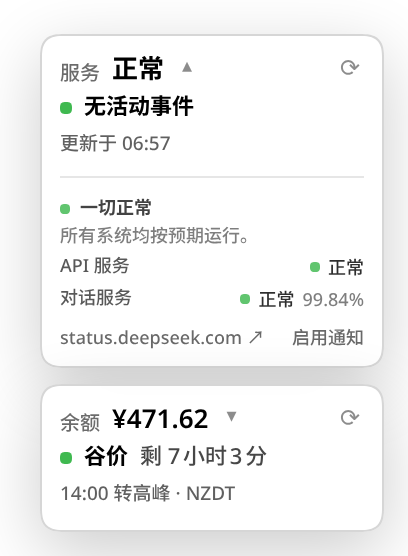
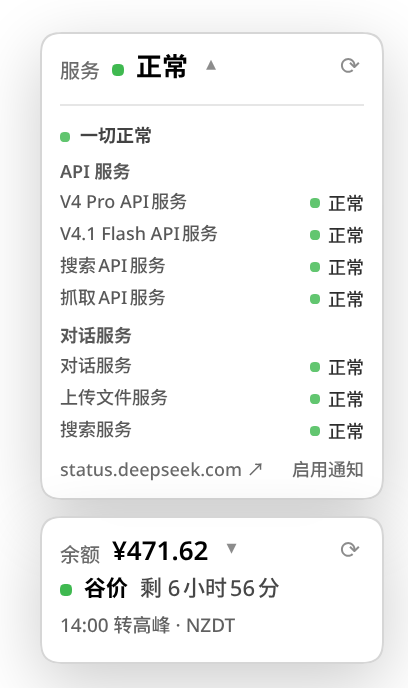
Show only the main status collapsed; list all services when expanded
Collapse the status card to one line (label, state dot/value, chevron, refresh). The inline expansion keeps only current status for every service grouped by API/Chat, with no descriptions, uptime, timelines or recent-event history.

diff --git a/lib/client.js b/lib/client.js
@@ -119,6 +119,12 @@
   function groupShortName(name) {
     return String(name || '').replace(/\(.*$/, '').trim() || t('API 服务', 'API service')
   }
+  function componentShortName(name) {
+    return String(name || '')
+      .replace(/\s*\([^)]*\)\s*$/, '')
+      .replace(/^DeepSeek\s+/i, '')
+      .trim() || name
+  }
   function groupStatus(group) {
     var rank = { operational: 0, maintenance: 1, degraded: 2, partial_outage: 3, full_outage: 4, unknown: 5 }
     var worst = 'operational'
@@ -148,6 +154,9 @@
     '.dsh-status-refresh:hover,.dsh-status-chevron:hover{opacity:1}',
     '.dsh-status-line{display:flex;align-items:center;gap:6px;min-width:0;font-size:11px}',
     '.dsh-status-dot{display:inline-block;width:6px;height:6px;flex:0 0 auto;border-radius:50%;background:#3fb950;vertical-align:middle}',
+    '.dsh-status-head .dsh-status-dot{margin-top:7px}',
+    '.dsh-status-detail-group{margin-top:5px;font-weight:600;opacity:.8}',
+    '.dsh-status-detail-group:first-of-type{margin-top:0}',
     '.dsh-status-card[data-status="degraded"] .dsh-status-dot,.dsh-status-card[data-status="partial_outage"] .dsh-status-dot,.dsh-status-detail-dot[data-status="degraded"],.dsh-status-detail-dot[data-status="partial_outage"]{background:#e6a23c}',
     '.dsh-status-card[data-status="full_outage"] .dsh-status-dot,.dsh-status-detail-dot[data-status="full_outage"]{background:#d5484a}',
     '.dsh-status-card[data-status="maintenance"] .dsh-status-dot,.dsh-status-detail-dot[data-status="maintenance"]{background:#4a7dff}',
@@ -242,16 +251,11 @@
   card.innerHTML = [
     '<div class="dsh-status-head">',
     '  <span class="dsh-status-label"></span>',
+    '  <span class="dsh-status-dot"></span>',
     '  <span class="dsh-status-value">…</span>',
     '  <span class="dsh-status-chevron" aria-hidden="true">▾</span>',
     '  <button class="dsh-status-refresh" type="button">⟳</button>',
     '</div>',
-    '<div class="dsh-status-line">',
-    '  <span class="dsh-status-dot"></span>',
-    '  <span class="dsh-status-window">…</span>',
-    '  <span class="dsh-status-remain"></span>',
-    '</div>',
-    '<div class="dsh-status-next"></div>',
     '<div class="dsh-status-details"></div>',
   ].join('')
   document.body.appendChild(card)
@@ -305,24 +309,9 @@
     card.setAttribute('data-status', indicator)
     setText(card.querySelector('.dsh-status-label'), t('服务', 'Service'))
     setText(card.querySelector('.dsh-status-value'), cardState(indicator))
-    var count = summary && Number(summary.activeCount)
-    var windowText
-    if (!summary && state.error) windowText = t('连接失败', 'Connection failed')
-    else if (!summary) windowText = '…'
-    else if (count > 0) windowText = count + t(' 个事件', ' incident' + (count > 1 ? 's' : ''))
-    else windowText = t('无活动事件', 'No active incidents')
-    setText(card.querySelector('.dsh-status-window'), windowText)
-    setText(card.querySelector('.dsh-status-remain'), '')
-    var updated = summary && summary.fetchedAt ? fmtTime(summary.fetchedAt) : ''
-    var next
-    if (!summary && state.error) next = state.error
-    else if (!summary) next = t('正在获取状态…', 'Fetching status…')
-    else next = t('更新于 ', 'Updated ') + updated
-    setText(card.querySelector('.dsh-status-next'), next)
     var hint = expanded ? t('点击收起', 'Click to collapse') : t('点击展开详情', 'Click for details')
     if (card.title !== hint) card.title = hint
     var aria = t('DeepSeek 服务：', 'DeepSeek service: ') + cardState(indicator)
-    if (count > 0) aria += ' · ' + count + t(' 个事件', ' incident' + (count > 1 ? 's' : ''))
     card.setAttribute('aria-label', aria)
   }
 
@@ -347,26 +336,29 @@
       detailDot(indicator),
       node('span', 'dsh-status-detail-title', overallTitle(indicator)))
     details.appendChild(overall)
-    details.appendChild(node('div', 'dsh-status-detail-desc', overallDesc(indicator)))
 
     var groups = Array.isArray(summary.groups) ? summary.groups : []
     for (var i = 0; i < groups.length; i += 1) {
       var group = groups[i]
-      var status = groupStatus(group)
-      var right = append(node('span', 'dsh-status-detail-right'),
-        detailDot(status),
-        node('span', null, statusLabel(status)),
-        group.uptime !== null && group.uptime !== undefined
-          ? node('span', 'dsh-status-detail-uptime', fmtUptime(group.uptime))
-          : null)
-      details.appendChild(append(node('div', 'dsh-status-detail-row'),
-        node('span', 'dsh-status-detail-name', groupShortName(group.name)),
-        right))
+      var components = Array.isArray(group.components) ? group.components : []
+      if (!components.length) continue
+      details.appendChild(node('div', 'dsh-status-detail-group', groupShortName(group.name)))
+      for (var j = 0; j < components.length; j += 1) {
+        var component = components[j]
+        var componentStatus = component.status || 'unknown'
+        var name = node('span', 'dsh-status-detail-name', componentShortName(component.name))
+        name.title = component.name || ''
+        details.appendChild(append(node('div', 'dsh-status-detail-row'),
+          name,
+          append(node('span', 'dsh-status-detail-right'),
+            detailDot(componentStatus),
+            node('span', null, statusLabel(componentStatus)))))
+      }
     }
 
     var incidents = Array.isArray(summary.incidents) ? summary.incidents : []
-    for (var j = 0; j < Math.min(incidents.length, 2); j += 1) {
-      var incident = incidents[j]
+    for (var k = 0; k < Math.min(incidents.length, 2); k += 1) {
+      var incident = incidents[k]
       details.appendChild(node('div', 'dsh-status-detail-row dsh-status-detail-title', incident.title))
       var meta = statusLabel(incident.indicator) + ' · ' + incidentStatusLabel(incident.status)
       if (incident.startedAt) meta += ' · ' + fmtDateTime(incident.startedAt)

diff --git a/README.md b/README.md
@@ -12,14 +12,14 @@ inline expansion and browser notifications when DeepSeek goes down or recovers.
 ## Features
 
 - **Balance-style status card** — same surface, typography, padding and width as
-  the balance card. With `dsh-balance` installed it sits 8 px above the balance
-  card; without it, it takes the corner itself.
+  the balance card, collapsed to one line: just `服务` + the current overall
+  state. With `dsh-balance` installed it sits 8 px above the balance card;
+  without it, it takes the corner itself.
 - **Compact inline details** — click the card to expand it in place, exactly like
-  the balance card. The expanded card shows the overall state, the service-group
-  states (API / Chat) with 90-day group uptime, and the active incident's
-  title/status/time. There is **no per-component list, no update timeline, and no
-  recent-events history**; the card links to the official status page for that.
-  Click the card again (or the chevron) to collapse it.
+  the balance card. The expanded card lists **every service** and its current
+  state, grouped by API / Chat. There are **no descriptions, uptimes, update
+  timelines, or recent-events history**; the card links to the official status
+  page for that depth. Click the card again (or the chevron) to collapse it.
 - **Down/up notifications** — one browser notification on the
   operational ↔ non-operational transition, with a silent first-load baseline.
   Clicking a notification opens the status card's details.
@@ -57,12 +57,11 @@ systemctl --user restart dsh-web
 
 ## Using it
 
-- The **bottom-right status card** shows:
-  - `服务` + overall state (`正常` / `降级` / `部分中断` / `中断` / `维护` / `未知`);
-  - a status dot + `无活动事件` or the active-incident count;
-  - `更新于 HH:MM`.
-- Click it to expand the card in place: overall state, group states, and the
-  active incident if any. Click again or the chevron to collapse.
+- The **bottom-right status card** is one line: `服务` + overall state (`正常` /
+  `降级` / `部分中断` / `中断` / `维护` / `未知`) + chevron + refresh.
+- Click it to expand the card in place: overall state, all services grouped by
+  API / Chat with their current states, and the active incident if any. Click
+  again or the chevron to collapse.
 - The expanded card's `status.deepseek.com ↗` link opens the official page for
   full component details and history. The `⟳` icon in the card refreshes the
   summary. `启用通知` requests notification permission.
@@ -85,18 +84,17 @@ The host reads the public DeepSeek status page backend:
 | Endpoint | Used for |
 |---|---|
 | `summary/active` | overall state, page/section/component tree, active changes |
-| `summary/structure?start_at_from_seconds=…&start_at_to_seconds=…` | 90-day group uptime |
 
-The host polls the active feed at most every 30 seconds and caches structure for
-five minutes. The browser only calls the local summary route:
+The host polls the active feed at most every 30 seconds. The browser only calls
+the local summary route:
 
 ```text
 GET /api/deepseek-status/summary
 GET /api/deepseek-status/client.js   # the injected card script
 ```
 
-A group's state is the worst component state in that group. Overall state is the
-worst active change. The expanded card does not show per-component history;
+The expanded card lists each component's current state. Overall state is the
+worst active change. The card does not show uptime, descriptions or history;
 the official page is the place for that.
 
 The status page backend is not a documented API. A failed read yields

diff --git a/README.zh.md b/README.zh.md
@@ -10,12 +10,12 @@
 
 ## 功能
 
-- **和余额卡片同款** — 使用相同的表面、字体、内边距和宽度。装有 `dsh-balance`
-  时位于余额卡片上方 8px；未安装时占据右下角。
-- **卡片内展开详情** — 点击卡片就地展开，和余额卡片一致。展开后显示总体状态、
-  服务分组状态（API / 对话）及分组 90 天可用性、活动事件的标题/状态/时间。
-  **不显示逐组件列表、不显示更新记录、不显示最近事件历史**；这些请去官方状态页。
-  再次点击卡片或点击箭头收起。
+- **和余额卡片同款** — 使用相同的表面、字体、内边距和宽度，收起时只有一行：
+  `服务` + 当前总体状态。装有 `dsh-balance` 时位于余额卡片上方 8px；未安装时
+  占据右下角。
+- **卡片内展开详情** — 点击卡片就地展开，和余额卡片一致。展开后列出**所有服务**
+  的当前状态，按 API / 对话分组。**不显示描述、可用性、更新记录、最近事件历史**；
+  这些请去官方状态页。再次点击卡片或点击箭头收起。
 - **中断/恢复通知** — 仅在「正常 ↔ 非正常」切换时发送一条通知；首次加载只记录
   基线。点击通知展开状态卡片。
 - **不需要凭据** — 状态源公开，没有 API Key 也能用，独立于 `dsh-balance`。
@@ -49,12 +49,10 @@ systemctl --user restart dsh-web
 
 ## 使用
 
-- 右下角的 **状态卡片** 显示：
-  - `服务` + 总体状态（`正常` / `降级` / `部分中断` / `中断` / `维护` / `未知`）；
-  - 状态点 + `无活动事件` 或活动事件数量；
-  - `更新于 HH:MM`。
-- 点击卡片就地展开：总体状态、分组状态、活动事件（如有）。再次点击或点击箭头
-  收起。
+- 右下角的 **状态卡片** 收起时只有一行：`服务` + 总体状态（`正常` / `降级` /
+  `部分中断` / `中断` / `维护` / `未知`）+ 箭头 + 刷新图标。
+- 点击卡片就地展开：总体状态、按 API / 对话分组的所有服务当前状态、活动事件
+  （如有）。再次点击或点击箭头收起。
 - 展开后的 `status.deepseek.com ↗` 打开官方状态页，查看完整组件详情和历史；
   卡片头部的 `⟳` 刷新状态；`启用通知` 请求通知权限。
 
@@ -76,17 +74,16 @@ Host 读取 DeepSeek 状态页的公开后端：
 | 接口 | 用途 |
 |---|---|
 | `summary/active` | 总体状态、页面/分组/组件树、活动变更 |
-| `summary/structure?start_at_from_seconds=…&start_at_to_seconds=…` | 90 天分组可用性 |
 
-Host 最多每 30 秒拉取一次活动状态；结构缓存 5 分钟。浏览器只访问本地摘要路由：
+Host 最多每 30 秒拉取一次活动状态。浏览器只访问本地摘要路由：
 
 ```text
 GET /api/deepseek-status/summary
 GET /api/deepseek-status/client.js   # 注入的卡片脚本
 ```
 
-分组状态取该组内最严重的组件状态；总体状态取最严重的活动变更。展开卡片不显示
-逐组件历史，需要时请去官方状态页。
+展开卡片列出每个组件的当前状态；总体状态取最严重的活动变更。卡片不显示可用性、
+描述或历史，需要时请去官方状态页。
 
 状态页后端不是正式文档 API，读取失败时显示 `状态未知` 并提供官方状态页链接，
 不会伪造「中断」。
